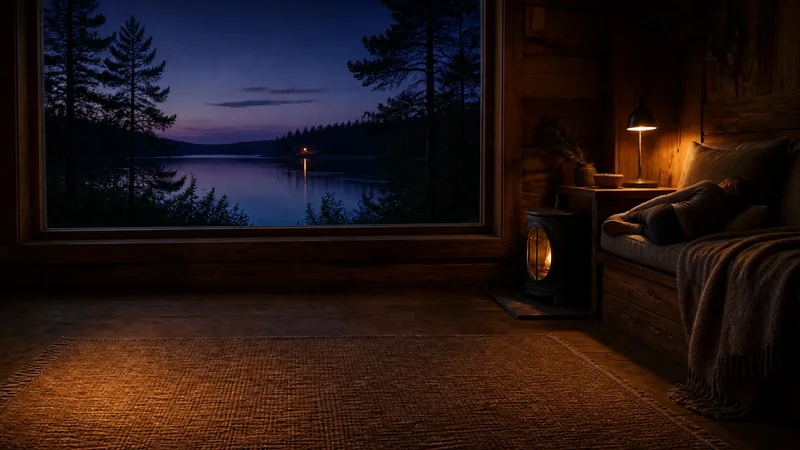
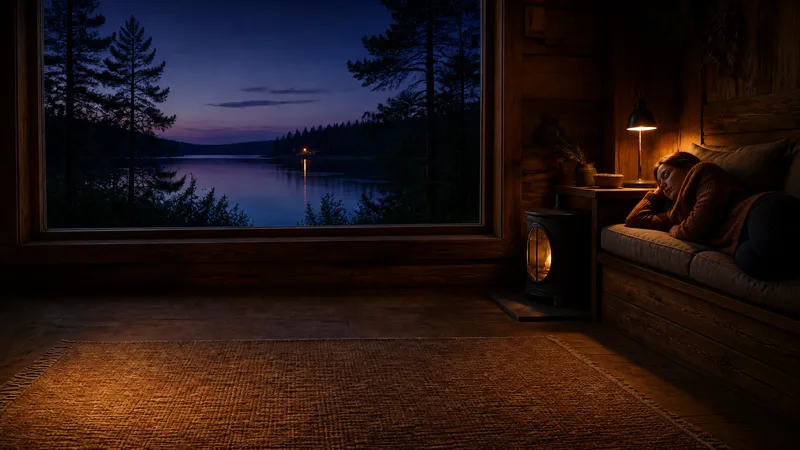
Normalize canonical SEO URLs
This change standardizes the site origin to https://mittpsyke.se across canonical links, OG tags, breadcrumbs, structured data, and robots/sitemap output. It also fixes the host redirect logic to preserve request query strings while redirecting legacy hosts, centralizes the SEO URL helpers, and adds tests for canonicalization and legacy sitemap redirect handling. Legacy blog slugs are now managed in one redirect map so redirected URLs are not advertised as indexable pages.

diff --git a/src/routes/+layout.svelte b/src/routes/+layout.svelte
@@ -34,6 +34,7 @@
 	} from '$lib/consent';
 	import { PUBLIC_CONTACT_EMAIL, PUBLIC_CONTACT_MAILTO } from '$lib/contact';
 	import { GENERAL_SAFETY_COPY } from '$lib/safety-copy';
+	import { PUBLIC_SITE_ORIGIN } from '$lib/seo';
 	import { page } from '$app/state';
 	import type { SupabaseClient, User } from '@supabase/supabase-js';
 
@@ -139,7 +140,7 @@
 	const fallbackDescription =
 		'AI-baserat samtalsstöd för reflektion och stöd i vardagen. Börja utan konto eller skapa en egen plats över tid.';
 	const ogDescription = $derived(page.data?.description || fallbackDescription);
-	const ogImage = $derived(page.data?.ogImage ?? 'https://www.mittpsyke.se/og-image.png');
+	const ogImage = $derived(page.data?.ogImage ?? `${PUBLIC_SITE_ORIGIN}/og-image.png`);
 
 	function getProfileName(profileDisplayName: string | null, sessionUser: User | null) {
 		const metadata = sessionUser?.user_metadata as Record<string, unknown> | undefined;
@@ -164,10 +165,10 @@
 		'@context': 'https://schema.org',
 		'@type': 'Organization',
 		name: 'MittPsyke',
-		url: 'https://www.mittpsyke.se',
+		url: PUBLIC_SITE_ORIGIN,
 		email: PUBLIC_CONTACT_EMAIL,
 		description: 'Svensk plattform för AI-baserat samtalsstöd och mental hälsa.',
-		logo: 'https://www.mittpsyke.se/logo.png',
+		logo: `${PUBLIC_SITE_ORIGIN}/logo.png`,
 		founder: {
 			'@type': 'Person',
 			name: 'Robert Claesson'
@@ -180,7 +181,7 @@
 		'@context': 'https://schema.org',
 		'@type': 'WebApplication',
 		name: 'MittPsyke',
-		url: 'https://www.mittpsyke.se',
+		url: PUBLIC_SITE_ORIGIN,
 		description: 'AI-driven dagbok för mental hälsa på svenska',
 		applicationCategory: 'HealthApplication',
 		inLanguage: 'sv',
@@ -620,10 +621,10 @@
 		<meta property="og:type" content={page.data?.ogType ?? 'website'} />
 		<meta property="og:site_name" content="MittPsyke" />
 
-		<meta property="og:url" content={`https://www.mittpsyke.se${page.url.pathname}`} />
+		<meta property="og:url" content={`${PUBLIC_SITE_ORIGIN}${page.url.pathname}`} />
 		<meta property="og:image" content={ogImage} />
 
-		<link rel="alternate" hreflang="sv" href={`https://www.mittpsyke.se${page.url.pathname}`} />
+		<link rel="alternate" hreflang="sv" href={`${PUBLIC_SITE_ORIGIN}${page.url.pathname}`} />
 
 		<meta name="twitter:card" content="summary_large_image" />
 		<meta name="twitter:title" content={page.data?.title ? `${page.data.title} | MittPsyke` : 'MittPsyke – Psykiskt stöd online'} />

diff --git a/src/hooks.server.ts b/src/hooks.server.ts
@@ -4,11 +4,13 @@ import { redirect, type Handle } from '@sveltejs/kit'
 import { sequence } from '@sveltejs/kit/hooks'
 import { getSessionUser } from '$lib/server/admin-auth'
 import { getGuideBySlugs, getPillarBySlug } from '$lib/seo-kit/content'
+import { canonicalRequestUrl, normalizeStructuredDataSiteUrls } from '$lib/seo'
 
 const supabaseUrl = publicEnv.PUBLIC_SUPABASE_URL ?? ''
 const supabaseAnonKey = publicEnv.PUBLIC_SUPABASE_ANON_KEY ?? ''
 
 const metaDescriptionPattern = /<meta\s+name=(["'])description\1[^>]*>/gi
+const jsonLdScriptPattern = /(<script\s+type=(["'])application\/ld\+json\2[^>]*>)([\s\S]*?)(<\/script>)/gi
 
 function dedupeMetaDescriptions(html: string): string {
 	const matches = [...html.matchAll(metaDescriptionPattern)]
@@ -18,6 +20,12 @@ function dedupeMetaDescriptions(html: string): string {
 	return html.replace(metaDescriptionPattern, (match: string, ...args: unknown[]) => {
 		const offset = args[args.length - 2]
 		return offset === keepIndex ? match : ''
+	})
+}
+
+function normalizeStructuredDataUrls(html: string): string {
+	return html.replace(jsonLdScriptPattern, (_match, startTag: string, _quote: string, json: string, endTag: string) => {
+		return `${startTag}${normalizeStructuredDataSiteUrls(json)}${endTag}`
 	})
 }
 
@@ -110,10 +118,8 @@ const canonicalHostRedirect: Handle = async ({ event, resolve }) => {
 	const forwardedHost = event.request.headers.get('x-forwarded-host')?.split(',')[0]?.trim() ?? ''
 	const requestHost = (forwardedHost || event.url.host).replace(/:\d+$/, '')
 
-	if (requestHost === 'mittpsyke.se') {
-		const canonicalUrl = new URL(event.url)
-		canonicalUrl.host = 'www.mittpsyke.se'
-		throw redirect(301, canonicalUrl.toString())
+	if (requestHost === 'www.mittpsyke.se') {
+		throw redirect(301, canonicalRequestUrl(event.url))
 	}
 
 	return resolve(event)
@@ -121,7 +127,7 @@ const canonicalHostRedirect: Handle = async ({ event, resolve }) => {
 
 const seoHeadCleanup: Handle = async ({ event, resolve }) => {
 	return resolve(event, {
-		transformPageChunk: ({ html }) => dedupeMetaDescriptions(html)
+		transformPageChunk: ({ html }) => normalizeStructuredDataUrls(dedupeMetaDescriptions(html))
 	})
 }
 

diff --git a/src/lib/server/legacy-redirects.ts b/src/lib/server/legacy-redirects.ts
@@ -1,0 +1,26 @@
+// Old blog slugs that resolve with the same permanent redirects as hooks.server.ts.
+// The sitemap uses this list so redirect URLs are not advertised as indexable URLs.
+export const legacyBlogRedirects: Record<string, string> = {
+	'/blogg/digital-dagbok-for-maende': '/digital-dagbok-for-maende',
+	'/blogg/psykiskt-stod-online': '/psykiskt-stod-online',
+	'/blogg/humorsparning': '/humorsparning',
+	'/blogg/humorsparning-app-psykisk-halsa': '/humorsparning',
+	'/blogg/skriva-dagbok-online': '/dagbok',
+	'/blogg/att-skriva-av-sig-anonymt-online': '/anonym-dagbok-online',
+	'/blogg/ovningar-for-att-lugna-tankarna': '/ovningar',
+	'/blogg/stod-utan-konto-online': '/chatta-anonymt',
+	'/blogg/textbaserat-samtalsstod-vid-oro': '/hjalp-mot-oro-online',
+	'/blogg/nar-soka-vard-for-psykiskt-maende': '/ansvar',
+	'/blogg/hur-sortera-tankar-vid-stress': '/stod-vid-stress-online',
+	'/blogg/mans-psykiska-halsa': '/blogg/varfor-syns-inte-man-i-samtalet-om-psykisk-ohalsa',
+	'/blogg/integritet-i-appar-for-mental-halsa': '/blogg/s%C3%A4kra-maendedata-tjanster',
+	'/blogg/anonymt-stod-vs-vardkontakt': '/anonymt-samtalstod-online',
+	'/blogg/reflektionsfragor-for-psykiskt-maende': '/blogg/vad-ska-jag-skriva-i-dagbok',
+	'/blogg/hjalp-att-satta-ord-pa-kanslor': '/blogg/guide-till-battre-kansloverblick',
+	'/blogg/ai-dagbok': '/blogg/ai-hjalper-dig-bearbeta-kanslor',
+	'/blogg/textstod-eller-terapi-online-vad-passar-dig': '/blogg/ar-textstod-lika-hjalpsamt-samtal',
+	'/blogg/anonym-hjalp-for-oro': '/hjalp-mot-oro-online',
+	'/blogg/hur-fungerar-humordagbok': '/blogg/humorsparning-online',
+	'/blogg/psykisk-ohalsa-stod-hjalp-sverige': '/blogg/hjaelp-vid-psykisk-ohaelsa',
+	'/blogg/kbt-vid-angest': '/guider/kbt/kbt-vid-angest'
+};

diff --git a/src/lib/components/BreadcrumbSchema.svelte b/src/lib/components/BreadcrumbSchema.svelte
@@ -1,10 +1,10 @@
 <script lang="ts">
+	import { canonicalUrl, PUBLIC_SITE_ORIGIN } from '$lib/seo';
+
 	type Crumb = {
 		name: string;
 		url: string;
 	};
-
-	const SITE_URL = 'https://www.mittpsyke.se';
 
 	type BreadcrumbSchemaProps = {
 		crumbs: Crumb[];
@@ -14,24 +14,21 @@
 
 	function toAbsoluteUrl(url: string): string {
 		if (url.startsWith('http://') || url.startsWith('https://')) {
-			return url;
+			const parsed = new URL(url);
+			if (!['mittpsyke.se', 'www.mittpsyke.se'].includes(parsed.hostname)) return url;
 		}
 
-		if (url === '/') {
-			return `${SITE_URL}/`;
-		}
-
-		return `${SITE_URL}${url.startsWith('/') ? url : `/${url}`}`;
+		return canonicalUrl(url);
 	}
 
 	const normalizedCrumbs = $derived.by(() => {
 		const remainingCrumbs =
-			crumbs[0]?.name === 'Hem' || crumbs[0]?.url === '/' || crumbs[0]?.url === `${SITE_URL}/`
+			crumbs[0]?.name === 'Hem' || crumbs[0]?.url === '/' || crumbs[0]?.url === `${PUBLIC_SITE_ORIGIN}/`
 				? crumbs.slice(1)
 				: crumbs;
 
 		return [
-			{ name: 'Hem', item: `${SITE_URL}/` },
+			{ name: 'Hem', item: `${PUBLIC_SITE_ORIGIN}/` },
 			...remainingCrumbs.map((crumb) => ({
 				name: crumb.name || crumb.url.split('/').filter(Boolean).pop() || 'Sida',
 				item: toAbsoluteUrl(crumb.url)

diff --git a/src/lib/seo.test.ts b/src/lib/seo.test.ts
@@ -1,0 +1,35 @@
+import { describe, expect, it } from 'vitest';
+import {
+	canonical,
+	canonicalRequestUrl,
+	canonicalUrl,
+	normalizeStructuredDataSiteUrls,
+	PUBLIC_SITE_ORIGIN
+} from './seo';
+
+describe('canonical SEO URLs', () => {
+	it('uses the non-www HTTPS origin for generated paths', () => {
+		expect(PUBLIC_SITE_ORIGIN).toBe('https://mittpsyke.se');
+		expect(canonical('/framsteg/')).toBe('https://mittpsyke.se/framsteg');
+	});
+
+	it('normalizes legacy hosts without retaining query strings or fragments', () => {
+		expect(canonicalUrl('http://www.mittpsyke.se/guider/angest/?source=old#intro')).toBe(
+			'https://mittpsyke.se/guider/angest'
+		);
+	});
+
+	it('keeps request query strings when redirecting a legacy host', () => {
+		expect(canonicalRequestUrl('http://www.mittpsyke.se/guider/angest/?source=old#intro')).toBe(
+			'https://mittpsyke.se/guider/angest?source=old'
+		);
+	});
+
+	it('normalizes legacy URLs in structured data without touching other hosts', () => {
+		expect(
+			normalizeStructuredDataSiteUrls(
+				'{"url":"https://www.mittpsyke.se/angest","sameAs":"https://example.com"}'
+			)
+		).toBe('{"url":"https://mittpsyke.se/angest","sameAs":"https://example.com"}');
+	});
+});

diff --git a/src/lib/seo.ts b/src/lib/seo.ts
@@ -1,4 +1,4 @@
-const SITE_URL = 'https://www.mittpsyke.se';
+export const PUBLIC_SITE_ORIGIN = 'https://mittpsyke.se';
 
 export function buildTitle(pageTitle: string): string {
 	return `${pageTitle} | MittPsyke`;
@@ -9,5 +9,32 @@ export function canonical(path: string): string {
 		.replace(/[?#].*$/, '')
 		.replace(/\/+$/, '') || '/';
 
-	return `${SITE_URL}${normalizedPath}`;
+	return `${PUBLIC_SITE_ORIGIN}${normalizedPath}`;
+}
+
+function normalizeToCanonicalUrl(value: string | URL, preserveSearch: boolean): URL {
+	const url = new URL(value, PUBLIC_SITE_ORIGIN);
+	url.protocol = 'https:';
+	url.host = 'mittpsyke.se';
+	url.port = '';
+	url.hash = '';
+	if (!preserveSearch) url.search = '';
+
+	if (url.pathname !== '/') {
+		url.pathname = url.pathname.replace(/\/+$/, '');
+	}
+
+	return url;
+}
+
+export function canonicalUrl(value: string | URL): string {
+	return normalizeToCanonicalUrl(value, false).toString();
+}
+
+export function canonicalRequestUrl(value: string | URL): string {
+	return normalizeToCanonicalUrl(value, true).toString();
+}
+
+export function normalizeStructuredDataSiteUrls(value: string): string {
+	return value.replaceAll('https://www.mittpsyke.se', PUBLIC_SITE_ORIGIN);
 }

diff --git a/src/routes/sitemap.xml/+server.ts b/src/routes/sitemap.xml/+server.ts
@@ -5,6 +5,7 @@ import { seoSupportPagePaths } from '$lib/data/seo-support-pages';
 import { SORO_EMBED_SRC } from '$lib/soro';
 import { getArticleTopics, getPublishedArticles } from '$lib/server/article-content';
 import { getContentLastmod } from '$lib/server/content-freshness';
+import { replaceRedirectedSitemapPath } from '$lib/server/sitemap-redirects';
 import type { RequestHandler } from './$types';
 
 const STATIC_CONTENT_LASTMOD = '2026-03-29';
@@ -65,16 +66,6 @@ function asLastmod(value: string | undefined): string {
 	}
 
 	return /^\d{4}-\d{2}-\d{2}$/.test(value) ? value : BLOG_LASTMOD;
-}
-
-const SITEMAP_REDIRECT_REPLACEMENTS: Record<string, string> = {
-	'/blogg/nar-soka-vard-for-psykiskt-maende': '/ansvar',
-	'/blogg/anonym-hjalp-for-oro': '/hjalp-mot-oro-online',
-	'/blogg/integritet-i-appar-for-mental-halsa': '/blogg/säkra-maendedata-tjanster'
-};
-
-function replaceRedirectedSitemapPath(path: string): string {
-	return SITEMAP_REDIRECT_REPLACEMENTS[path] ?? path;
 }
 
 function extractSoroArticles(embedScript: string): SoroArticleListItem[] {

diff --git a/src/lib/server/article-content.ts b/src/lib/server/article-content.ts
@@ -5,6 +5,7 @@ import { getGuideBySlugs, getPillarBySlug } from '$lib/seo-kit/content';
 import { getToolBySlug } from '$lib/data/seo-architecture';
 import { getPortalByKey } from '$lib/data/portals';
 import { CHAT_CATEGORY_TO_SLUG, CHAT_SLUG_TO_CATEGORY } from '$lib/data/chat-slugs';
+import { PUBLIC_SITE_ORIGIN } from '$lib/seo';
 
 const DEFAULT_ARTICLE_TITLE = 'Artikel';
 const DEFAULT_ARTICLE_AUTHOR = 'MittPsyke';
@@ -563,7 +564,7 @@ export function getArticleDateLabel(article: Pick<Article, 'date'>) {
 	return article.date ? formatDate(article.date) : MISSING_DATE_LABEL;
 }
 
-const SITE_URL = 'https://www.mittpsyke.se';
+const SITE_URL = PUBLIC_SITE_ORIGIN;
 
 // Bygger samma BlogPosting/HowTo-schema som artikelsidan lägger i <script type="application/ld+json">.
 // Delad funktion så att både sidan och testerna använder exakt samma logik.

diff --git a/src/lib/components/SEO.svelte b/src/lib/components/SEO.svelte
@@ -1,25 +1,13 @@
 <script lang="ts">
+	import { canonicalUrl } from '$lib/seo';
+
 	type SEOProps = {
 		canonical: string;
 	};
 
 	let { canonical }: SEOProps = $props();
 
-	function normalizeCanonical(url: string): string {
-		const normalizedUrl = new URL(url);
-		normalizedUrl.protocol = 'https:';
-		normalizedUrl.host = 'www.mittpsyke.se';
-		normalizedUrl.search = '';
-		normalizedUrl.hash = '';
-
-		if (normalizedUrl.pathname !== '/') {
-			normalizedUrl.pathname = normalizedUrl.pathname.replace(/\/+$/, '');
-		}
-
-		return normalizedUrl.toString();
-	}
-
-	const canonicalHref = $derived(normalizeCanonical(canonical));
+	const canonicalHref = $derived(canonicalUrl(canonical));
 </script>
 
 <svelte:head>

diff --git a/src/routes/guider/[pillar]/[guide]/+page.svelte b/src/routes/guider/[pillar]/[guide]/+page.svelte
@@ -7,6 +7,7 @@
 	import SeoHead from '$lib/components/SeoHead.svelte';
 	import { trackGuideView } from '$lib/analytics';
 	import { buildTitle } from '$lib/seo-kit/seo';
+	import { PUBLIC_SITE_ORIGIN } from '$lib/seo';
 	import { onMount } from 'svelte';
 	import type { PageData } from './$types';
 
@@ -35,11 +36,11 @@
 		'@type': 'WebPage',
 		headline: data.guide.title,
 		description: data.guide.seoDescription ?? data.guide.description,
-		url: `https://www.mittpsyke.se${$page.url.pathname}`,
+		url: `${PUBLIC_SITE_ORIGIN}${$page.url.pathname}`,
 		publisher: {
 			'@type': 'Organization',
 			name: 'MittPsyke',
-			url: 'https://www.mittpsyke.se'
+			url: PUBLIC_SITE_ORIGIN
 		},
 		inLanguage: 'sv-SE'
 	});

diff --git a/src/routes/guider/[pillar]/+page.svelte b/src/routes/guider/[pillar]/+page.svelte
@@ -5,6 +5,7 @@
 	import SeoHead from '$lib/components/SeoHead.svelte';
 	import SeoPillarLanding from '$lib/components/SeoPillarLanding.svelte';
 	import { buildTitle } from '$lib/seo-kit/seo';
+	import { PUBLIC_SITE_ORIGIN } from '$lib/seo';
 	import type { PageData } from './$types';
 
 	let { data } = $props<{ data: PageData }>();
@@ -21,11 +22,11 @@
 		'@type': 'CollectionPage',
 		headline,
 		description: pageDescription,
-		url: `https://www.mittpsyke.se${$page.url.pathname}`,
+		url: `${PUBLIC_SITE_ORIGIN}${$page.url.pathname}`,
 		publisher: {
 			'@type': 'Organization',
 			name: 'MittPsyke',
-			url: 'https://www.mittpsyke.se'
+			url: PUBLIC_SITE_ORIGIN
 		},
 		inLanguage: 'sv-SE'
 	});

diff --git a/src/lib/components/Breadcrumbs.svelte b/src/lib/components/Breadcrumbs.svelte
@@ -1,5 +1,6 @@
 <script lang="ts">
 	import { page } from '$app/state';
+	import { canonicalUrl } from '$lib/seo';
 
 	type BreadcrumbItem = {
 		label: string;
@@ -10,20 +11,10 @@
 		items: BreadcrumbItem[];
 	};
 
-	const SITE_URL = 'https://www.mittpsyke.se';
-
 	let { items }: BreadcrumbsProps = $props();
 
 	function toAbsoluteUrl(href: string): string {
-		const url = new URL(href, SITE_URL);
-		url.protocol = 'https:';
-		url.host = 'www.mittpsyke.se';
-
-		if (url.pathname !== '/') {
-			url.pathname = url.pathname.replace(/\/+$/, '');
-		}
-
-		return url.toString();
+		return canonicalUrl(href);
 	}
 
 	const normalizedItems = $derived.by(() => {
